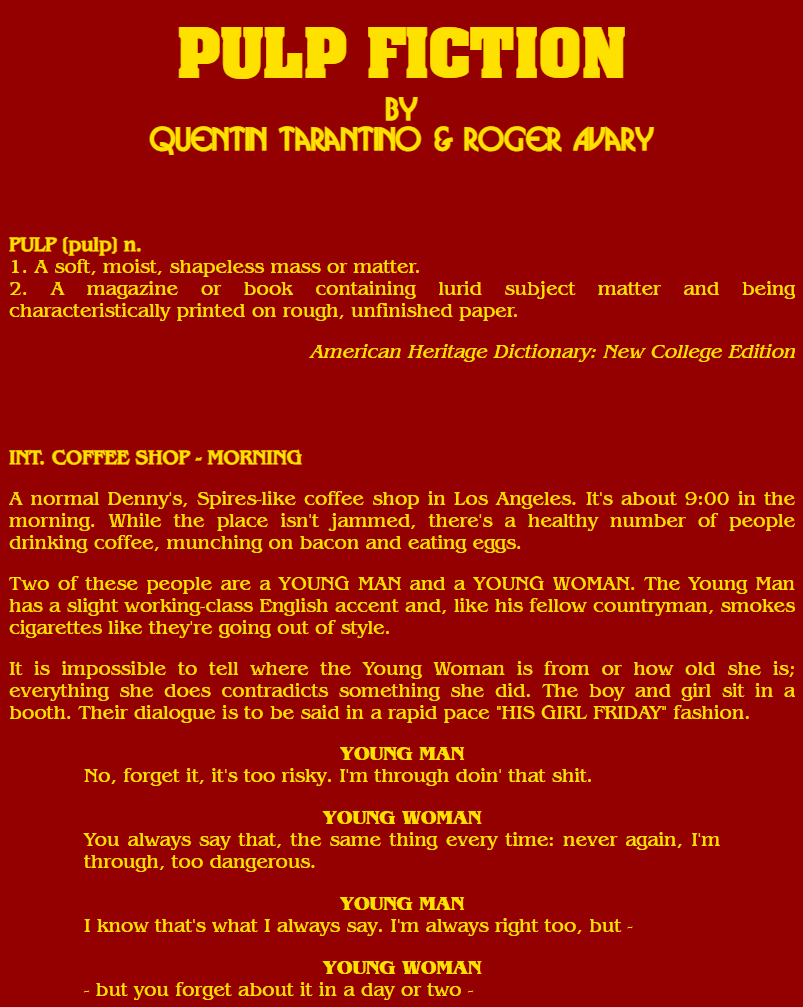
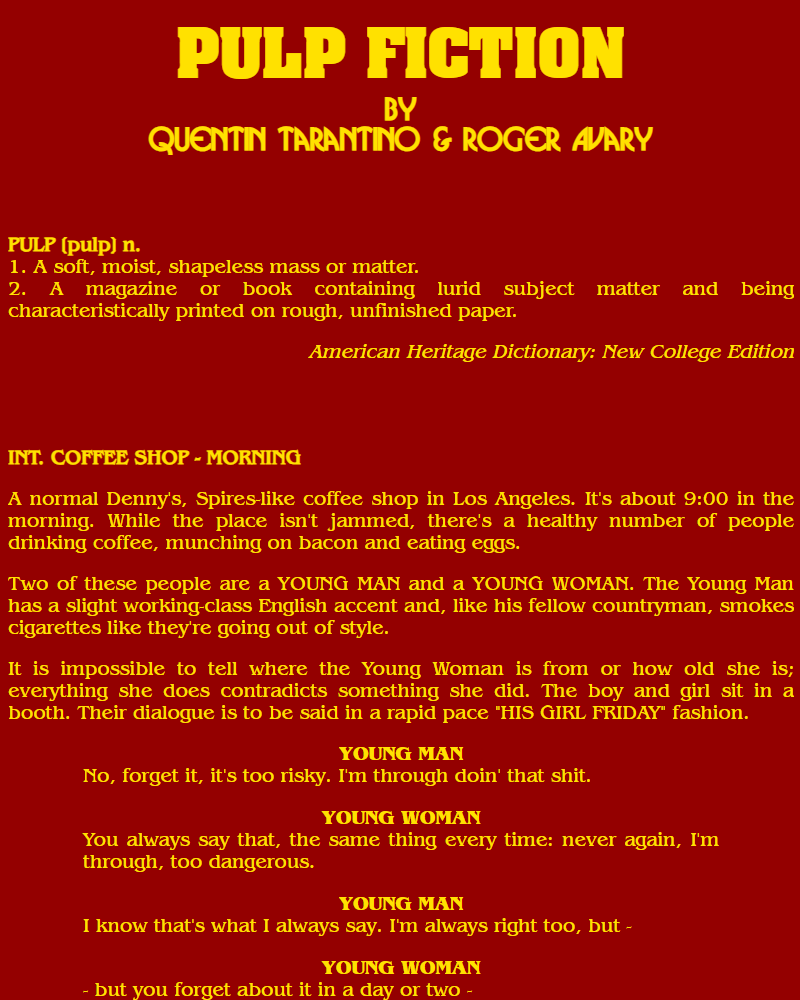
fix image size

diff --git a/README.md b/README.md
@@ -2,4 +2,4 @@
 
 A HTML version of the script to the movie "Pulp Fiction" by Quentin Tarrantino.
 
-![screenshot](preview.png | width=803)
+![screenshot](preview.png)
